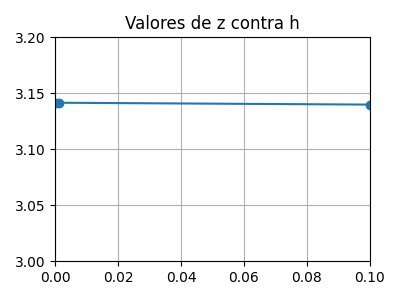
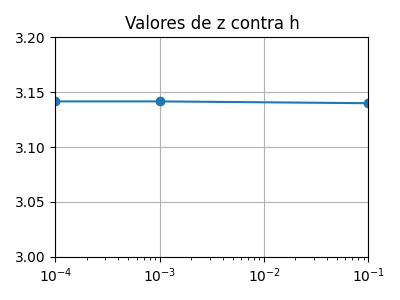
Improve plotting and input in aula3 scripts
Updated 'integral-por-trapezio.py' to use logarithmic x-axis scaling and adjusted limits for better visualization. Enhanced 'minimos-quadrados.py' to accept user input for data points, fixed a bug in 'soma_quadrado', switched to numpy arrays, and improved plotting of input points. Added 'minimoquad.png' and updated 'integral.png' for corresponding visualizations.

Changed region(s): [[0.03, 0.12, 0.96, 0.96]]

diff --git a/source/aula3/minimos-quadrados.py b/source/aula3/minimos-quadrados.py
@@ -1,4 +1,5 @@
 import matplotlib.pyplot as plt
+import numpy as np
 
 def soma_comum(x, n):
     soma = 0
@@ -15,12 +16,26 @@ def soma_produto(x, y, n):
 def soma_quadrado(x, n):
     soma = 0
     for i in range(n):
-        soma = x[i]**2
+        soma += x[i]**2
     return soma
 
-lista_x = [1, 2, 3, 4]
-lista_y = [1.5, 3.1, 4.3, 6.2 ]
-n = 4
+
+lista_x_entrada = list()
+lista_y_entrada = list()
+n = 0
+continuar = ''
+
+while continuar != "N":
+    try:
+        lista_x_entrada.append(float(input('Digite o valor de x: ')))
+        lista_y_entrada.append(float(input("Digite o valor de y: ")))
+        continuar = input("Quer continuar? [Y/N]: ").upper()
+        n += 1
+    except TypeError:
+        print("Não foi inserido um valor real")
+
+lista_x = np.array(lista_x_entrada)
+lista_y = np.array(lista_y_entrada)
 
 soma_x = soma_comum(lista_x, n)
 soma_y = soma_comum(lista_y, n)
@@ -30,19 +45,22 @@ soma_x2 = soma_quadrado(lista_x, n)
 a = (n*soma_xy - soma_x*soma_y)/(n*soma_x2 - soma_x**2)
 b = (soma_y*soma_x2 - soma_x* soma_xy) / (n*soma_x2 -soma_x**2)
 
+
 y = a*lista_x + b
 
 plt.figure(figsize=(4, 3))
 
 # Inserir valores e função
 plt.plot(lista_x, y, 'b-', label='vx(x)')
+for i in range(n):
+    plt.plot(lista_x[i], lista_y[i], color="#FF0000", marker='.', ms='10')
 
 # Título
 plt.title("Valores de y contra x")
 
 # Definindo domínio limitante
-plt.xlim(0, 5)
-plt.ylim(0, 7)
+plt.xlim(lista_x[0], lista_x[n-1])
+plt.ylim(lista_y[0], lista_y[n-1])
 
 # Configurações e execução
 plt.grid(True)

diff --git a/source/aula3/integral-por-trapezio.py b/source/aula3/integral-por-trapezio.py
@@ -26,7 +26,8 @@ plt.plot(x, z, marker='o', label='vx(x)')
 plt.title("Valores de z contra h")
 
 # Definindo domínio limitante
-plt.xlim(0, 0.1)
+plt.xscale('log')
+plt.xlim(0.0001, 0.1)
 plt.ylim(3, 3.2)
 
 # Configurações e execução
